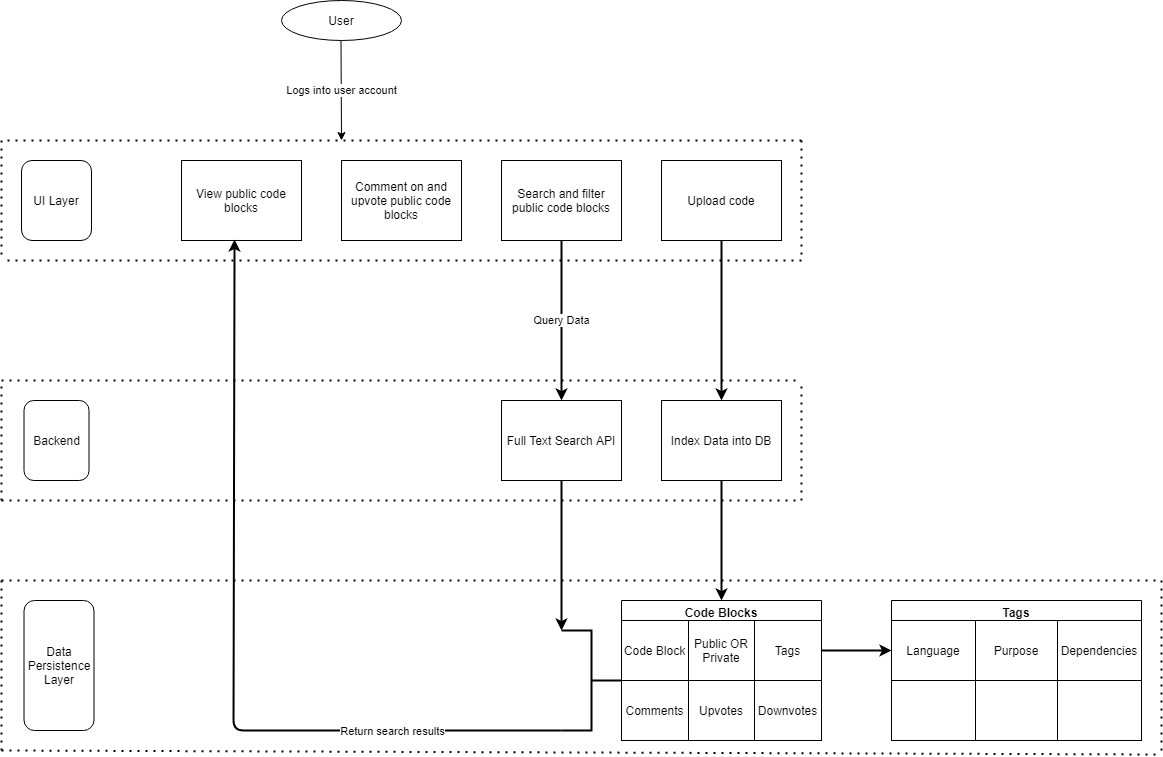
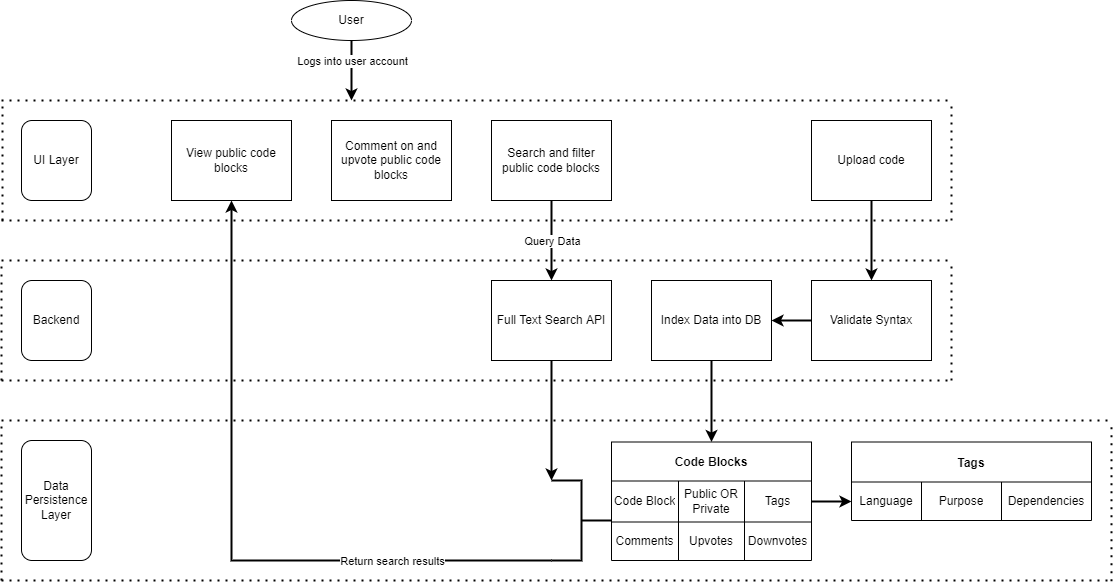
Update D2 diagram and add explanation

diff --git a/Homework/Design-Diagrams/Design-Diagrams.md b/Homework/Design-Diagrams/Design-Diagrams.md
@@ -1,9 +1,9 @@
 # Design Diagrams
 
-### D0
+## D0
 ![D0](D0.png)
 
-#### Explanation
+### Explanation
 User - This represents the end-user or system-user that will be making use of the web application.
 
 Web Application - This represents the core web application that will store the user defined code snippets, comments, etc.
@@ -15,10 +15,28 @@ Input - There are three primary inputs the web application will take...
 
 Output - The primary output will be the end-user's public/private snippets or filtered snippets from other users. 
 
-### D1
+## D1
 ![D1](D1.png)
 
 
-### D2
+## D2
 ![D2](D2.png)
 
+### Explanation
+Our user will log into their account or register one if they do not have one, and they will see the UI Layer.
+
+UI Layer
+1. Here the user will be able to view any code blocks that have been uploaded by other users and been made publicly available
+2. Comment and vote on those publicly available code blocks
+3. Search for specific code blocks and filter those searches as well
+4. Upload their own code for storage where they can add the meta data to it and make it either private or public
+
+Backend
+1. First set of APIs will be for our full text search functionality allowing users to search and filter the search results
+2. Second set will be to insert code that they the user has uploaded into our database for storage
+3. Third API will be to validate the user's uploaded code syntax via a third party, open source API
+
+Data Persistence Layer
+1. Will have a database setup in Elasticsearch which offers full text search capabilities
+2. Will store user code blocks in the database and each block will have metadata on it such as availability (public/private), tags, comments, and vote count
+3. The tag list will be a predefined list of tags that the user will get to choose from when uploading their code, and that list will include but is not limited to language, puprpose, dependencies
